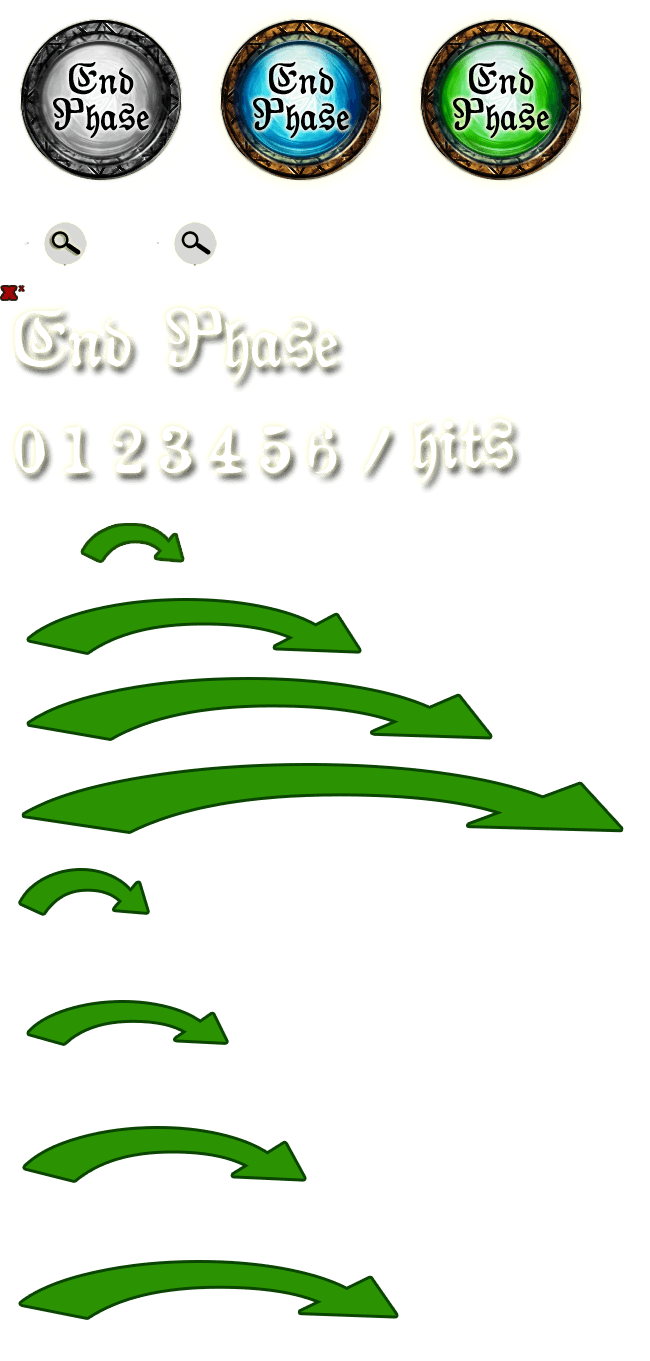
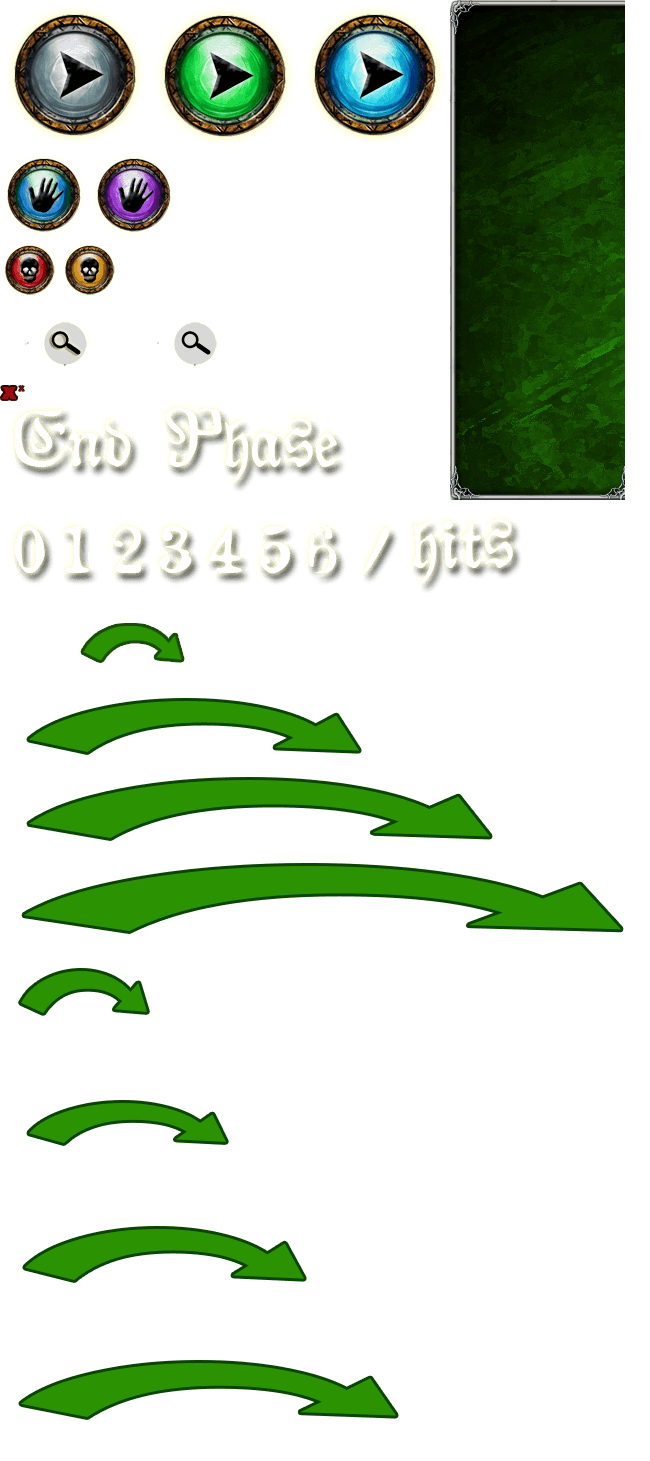
asdas

diff --git a/scripts/game.js b/scripts/game.js
@@ -493,11 +493,28 @@ var PlaygroundHandler = function () {
     that.image.src = "/img/playground_handler.png";
 
     //phase button settings
-    that.btn_phase_wh = 200; //button width and height
+    that.btn_phase_wh = 150; //button width and height
     that.btn_phase_frame = 0; //0 - not active, 1 - active not hovered, 1 - active hovered
     that.btn_phase_hover = false;
-    that.btn_phase_x = 810;
-    that.btn_phase_y = 560;
+    that.btn_phase_x = 835;
+    that.btn_phase_y = 605;
+    that.btn_phase_src_y = 0;
+
+    //hand button settings
+    that.btn_hand_wh = 90;
+    that.btn_hand_frame = 0; // 0 - active, 1 - hovered
+    that.btn_hand_hover = false;
+    that.btn_hand_x = 500;
+    that.btn_hand_y = 500;
+    that.btn_hand_src_y = 150;
+
+    //give-up button settings
+    that.btn_giveup_wh = 60;
+    that.btn_giveup_frame = 0; //0 - active, 1 - hovered
+    that.btn_giveup_hover = false;
+    that.btn_giveup_x = 500;
+    that.btn_giveup_y = 500;
+    that.btn_giveup_src_y = 240;
 
     that.animations = [];
 
@@ -518,7 +535,7 @@ var PlaygroundHandler = function () {
         that.square_h = 85;
 
         //image settings
-        that.sheet_origin = 200; //indicates start 'y' point for board graphics in the parent sheet
+        that.sheet_origin = 300; //indicates start 'y' point for board graphics in the parent sheet
 
         //wounds data - small icons
         that.wounds_src_x = 18;
@@ -1284,6 +1301,18 @@ var PlaygroundHandler = function () {
 
     }
 
+    var Hand = function () {
+
+        var that = this;
+
+        //image settings
+        that.sheet_src_x = 450;
+        that.sheet_src_y = 0;
+        that.hand_w = 175;
+        that.hand_h = 500;
+
+    }
+
     this.Animation = function (type, hits, shoots, attacking_card_id, hitted_card_id) {
 
         /* types definitions:
@@ -1296,7 +1325,7 @@ var PlaygroundHandler = function () {
         that.type = type;
 
         //image settings
-        that.sheet_origin = 301; //indicates start 'y' point for animation graphics in the sheet
+        that.sheet_origin = 401; //indicates start 'y' point for animation graphics in the sheet
         that.sheet_hor_arrows_origin = 501; //indicates start 'y' point for horizontal arrows
         that.sheet_ver_arrows_origin = 841; //indicates start 'y' point for vertical arrows
 
@@ -1488,7 +1517,7 @@ var PlaygroundHandler = function () {
         ctx.restore();
 
         //draw end phase button
-        ctx.drawImage(that.image, that.btn_phase_wh * that.btn_phase_frame, 0, that.btn_phase_wh, that.btn_phase_wh, that.btn_phase_x, that.btn_phase_y, that.btn_phase_wh, that.btn_phase_wh);
+        ctx.drawImage(that.image, that.btn_phase_wh * that.btn_phase_frame, that.btn_phase_src_y, that.btn_phase_wh, that.btn_phase_wh, that.btn_phase_x, that.btn_phase_y, that.btn_phase_wh, that.btn_phase_wh);
     }
 
     that.checkMouseAction = function () {
